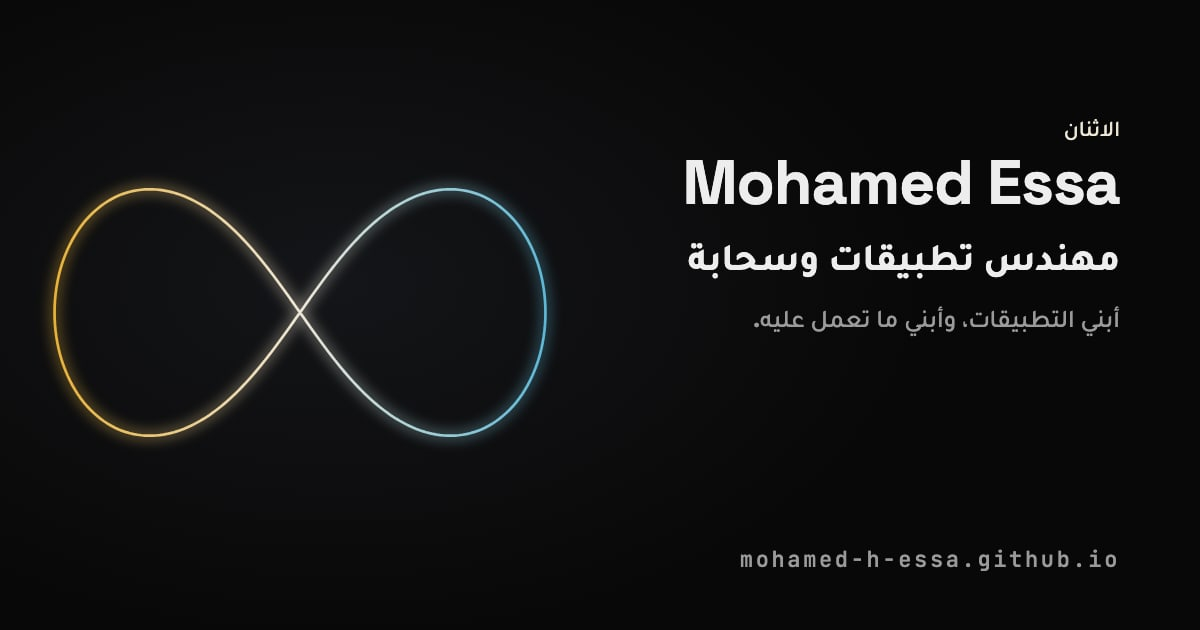
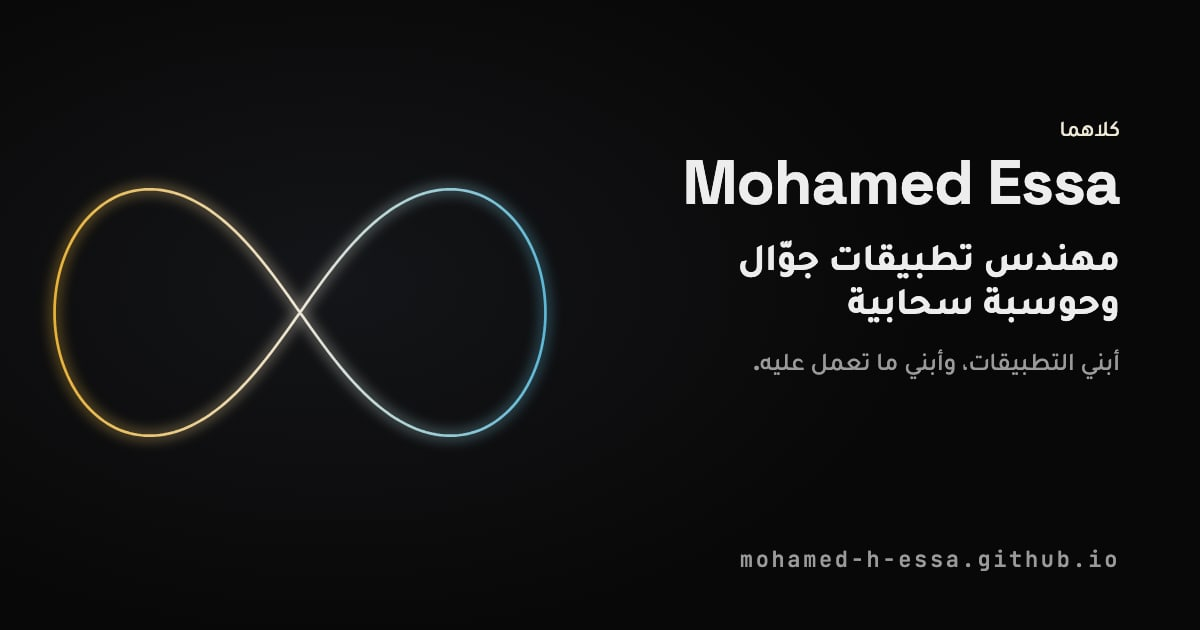
i18n: tailored DE/AR (and tightened EN) for UI and project texts
- German for the DACH tech market: English job titles, neutral address,
  Ausgangslage → Umsetzung → Ergebnis, real CV vocabulary.
- Arabic MSA as used in Gulf/Egyptian tech hiring: الجوّال, الحوسبة
  السحابية, التحدّي ← الحلّ ← النتيجة, English terms in parentheses.
- Names, stores, technologies and certificate titles stay untranslated.
- Removed 9 unused strings; link previews regenerated.
- docs/translation.md: the conventions + glossary.

Changed region(s): [[0.6167, 0.4524, 0.9558, 0.6032], [0.555, 0.3619, 0.6783, 0.4524], [0.8633, 0.181, 0.9558, 0.2413]]

diff --git a/docs/translation.md b/docs/translation.md
@@ -1,0 +1,45 @@
+# Translation conventions (EN · DE · AR)
+
+The site speaks to recruiters and engineers in three markets. Each language uses the words people in that market
+actually use for this work, not a word-for-word copy of the English. UI strings live in `src/i18n/{en,de,ar}.json`
+(same keys in all three); project text in `src/content/projects/*.yaml` (`en` required, `de`/`ar` drafts with
+`review: true` until the owner approves).
+
+## Never translate
+| What | Examples | Why |
+|---|---|---|
+| Product, app and company names | Qanony, ARATC, Bioot, Heaven Flowers, Intrazero, Credly | names; the stores show them this way |
+| Store names | App Store, Google Play, TestFlight | Apple's and Google's brand rules |
+| Technologies, services, tools | Flutter, React Native, Bloc, AWS Lambda, API Gateway, DynamoDB, GitHub Actions, MobSF, Cloudflare Workers | it's how developers write and search them, in every language |
+| Official certificate titles | AWS Certified Solutions Architect – Associate (SAA-C03) | the credential's legal name; translate the sentence around it |
+| Code, commands, regions | `eu-west-3`, `deploy.sh`, CI/CD | |
+
+Arabic keeps these in Latin script inside the Arabic sentence (that is how Arab developers write), with the Arabic
+connector attached: "منشور على App Store وGoogle Play".
+
+## German (DACH tech market)
+- **Job titles stay English**, as in German job ads: *Senior Mobile Engineer*, *Cloud & Platform Engineer*.
+- **No du / Sie:** UI copy is phrased neutrally (*Sprache wählen*, *Womit beginnen?*) so it addresses nobody; it reads
+  professional without the stiffness of *Sie*.
+- **Project sections** use the standard German project-reference structure: **Ausgangslage → Umsetzung → Ergebnis**.
+- **CV vocabulary:** *Lebenslauf*, *Berufserfahrung*, *Bildungsweg*, *Kenntnisse*, *Zertifizierungen*, "2025 – heute".
+- Established anglicisms stay (*Tech-Stack*, *Build*, *Release*, *Deployment*, *Store-Review*, *Platform Engineering*,
+  *Infrastructure as Code*); half-translations don't (~~re-plattformiert~~ → *auf eine neue Plattform migriert*).
+- Typography: en dash with spaces ( – ) for breaks, „…" only inside running text.
+
+## Arabic (MSA, as written in Gulf and Egyptian tech hiring)
+- **Mobile = الجوّال** (understood across the region; *موبايل* is Egyptian-colloquial). **Cloud = الحوسبة السحابية**
+  in titles, **السحابة** as the short lane name. **Platform = المنصّة**.
+- **Titles:** مهندس تطبيقات جوّال أول · مهندس حوسبة سحابية ومنصّات.
+- **Project sections:** **التحدّي ← الحلّ ← النتيجة** (the usual case-study pattern).
+- **Technical terms:** Arabic first, English in parentheses where the English is what people search:
+  تثبيت الشهادات (Certificate Pinning)، تشويش الكود (Obfuscation)، بلا خوادم (Serverless)، هندسة الموثوقية (SRE).
+- No colloquialisms, no literal calques (~~لا تدهس~~, ~~بصمة اقتصادية~~). Prefer *تولّي مسؤولية* over *امتلاك* for "own".
+- "present" = حتى الآن; "Both" = كلاهما.
+
+## English
+- "Google Play", never "Play Store". "Intrazero" as on its store listings.
+- Short, active, first person in the project story ("I took both apps through store readiness…").
+
+## Adding a project
+Write `en` first, then `de` and `ar` following the tables above, and leave `review: { de: true, ar: true }` for the owner.
